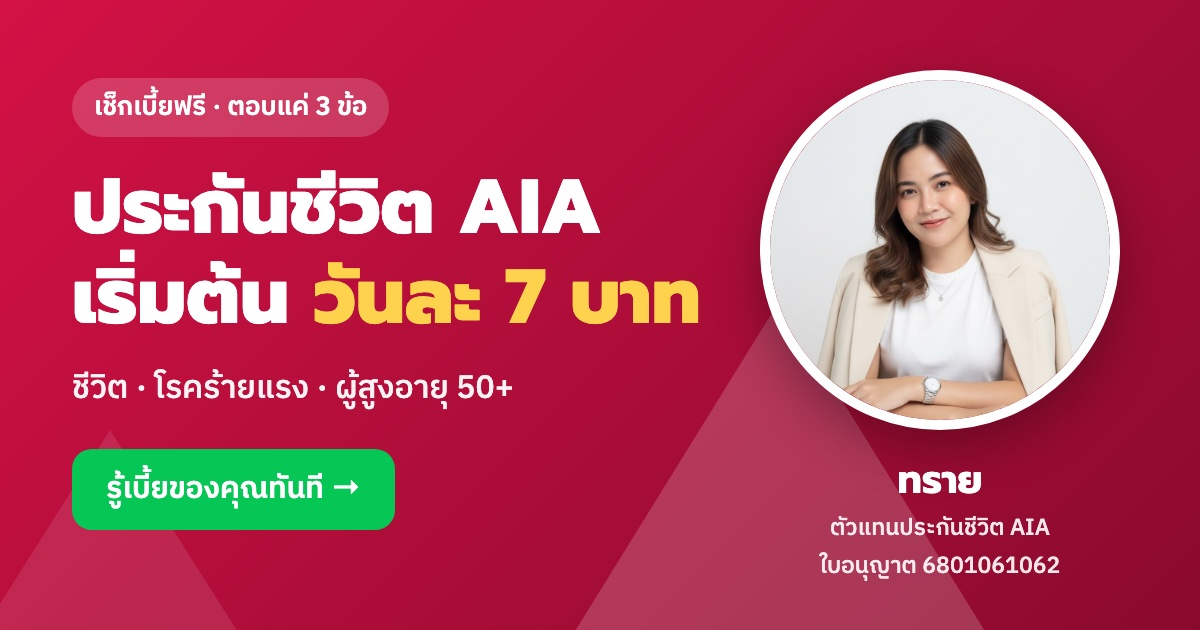
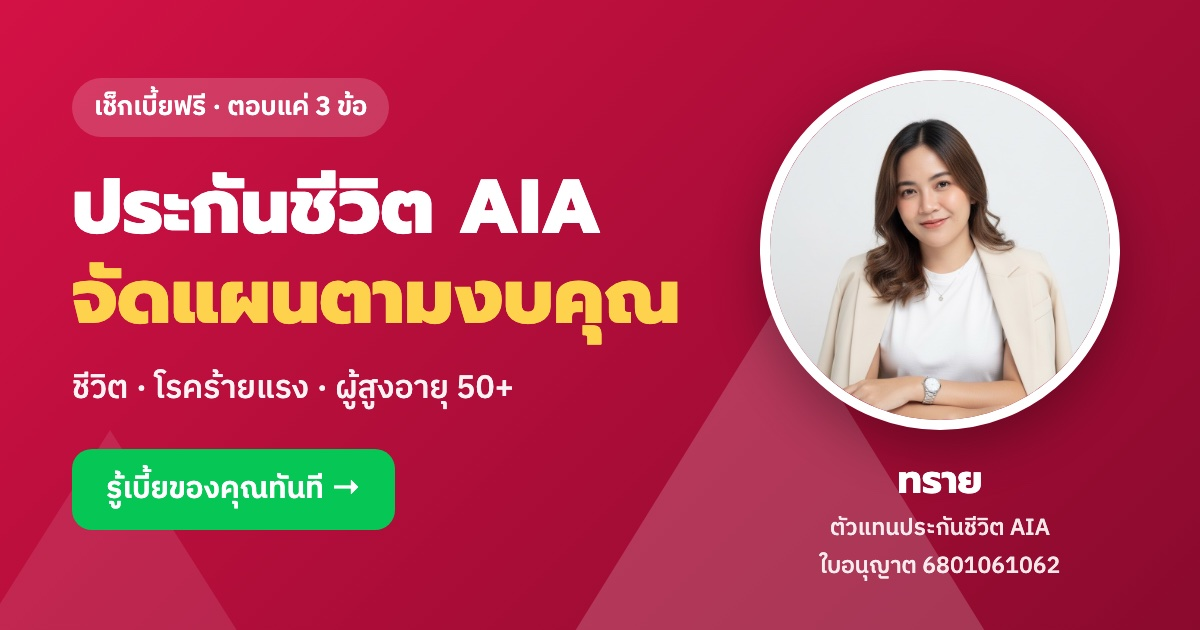
Share image: replace 7-baht headline

Changed region(s): [[0.0617, 0.3921, 0.5858, 0.5429]]

diff --git a/site/index.html b/site/index.html
@@ -5,14 +5,14 @@
 <meta name="viewport" content="width=device-width, initial-scale=1, viewport-fit=cover">
 <title>เช็กเบี้ยประกัน AIA ใน 3 ข้อ | ทราย AIA</title>
 <meta name="description" content="ตอบ 3 ข้อ รู้เบี้ยประกันชีวิต โรคร้ายแรง และประกันผู้สูงอายุ AIA ทันที เริ่มต้นวันละ 7 บาท">
-<meta property="og:title" content="ประกันชีวิต AIA เริ่มต้นวันละ 7 บาท">
+<meta property="og:title" content="เช็กเบี้ยประกัน AIA ฟรีใน 3 ข้อ | ทราย ตัวแทนประกันชีวิต AIA">
 <meta property="og:description" content="ตอบ 3 ข้อ รู้เบี้ยของคุณทันที ฟรี ไม่ต้องกรอกเบอร์">
 <meta property="og:type" content="website">
 <meta property="og:url" content="https://topworamet.github.io/aia/">
-<meta property="og:image" content="https://topworamet.github.io/aia/og.jpg">
+<meta property="og:image" content="https://topworamet.github.io/aia/og.jpg?v=2">
 <meta property="og:image:width" content="1200">
 <meta property="og:image:height" content="630">
-<meta property="og:image:alt" content="ประกันชีวิต AIA เริ่มต้นวันละ 7 บาท เช็กเบี้ยฟรีกับทราย ตัวแทนประกันชีวิต AIA">
+<meta property="og:image:alt" content="ประกันชีวิต AIA จัดแผนตามงบคุณ เช็กเบี้ยฟรีกับทราย ตัวแทนประกันชีวิต AIA">
 <meta property="og:locale" content="th_TH">
 <meta name="twitter:card" content="summary_large_image">
 <meta name="theme-color" content="#d31145">
